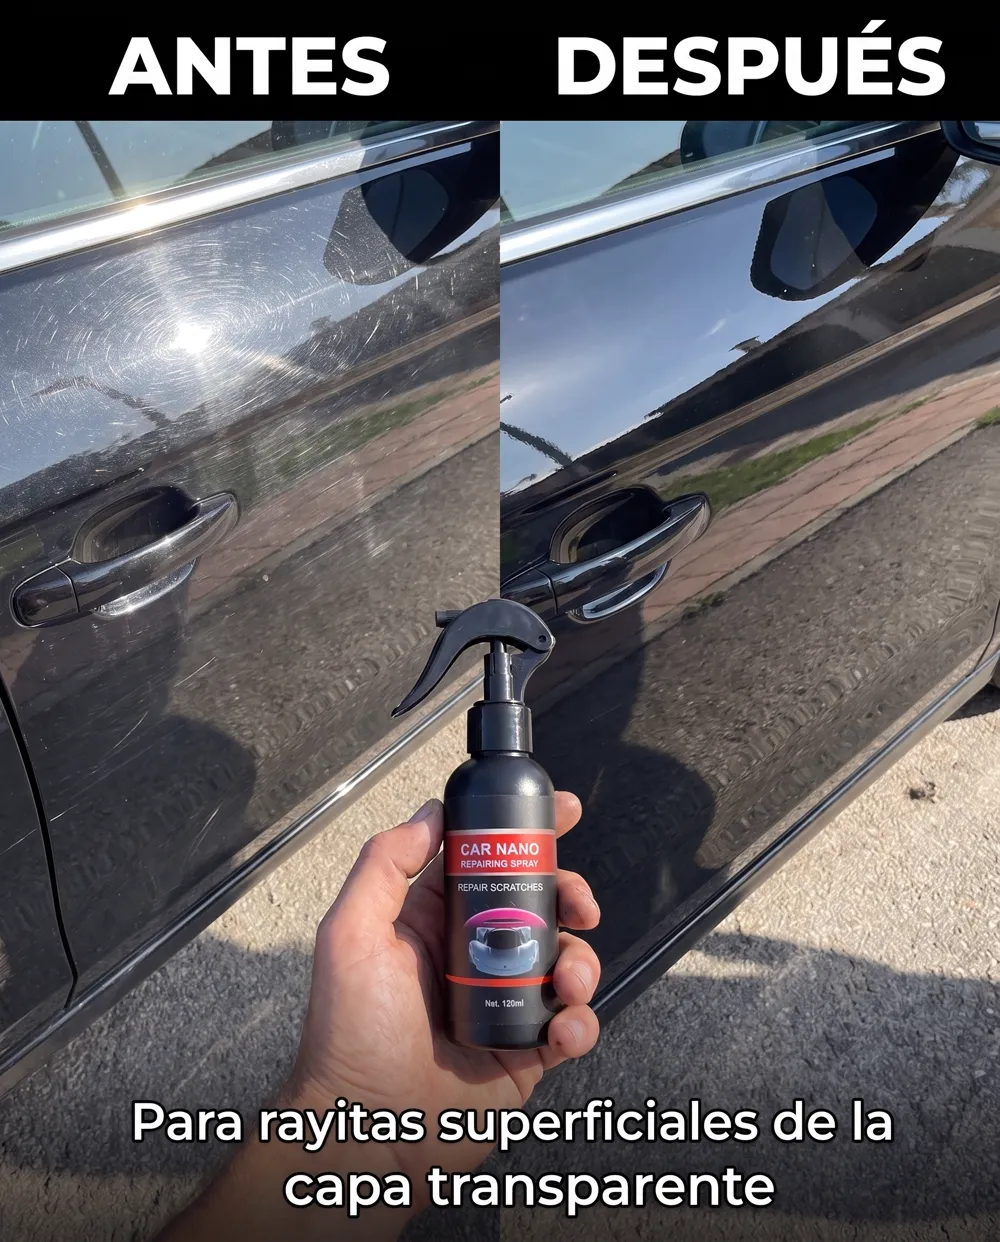
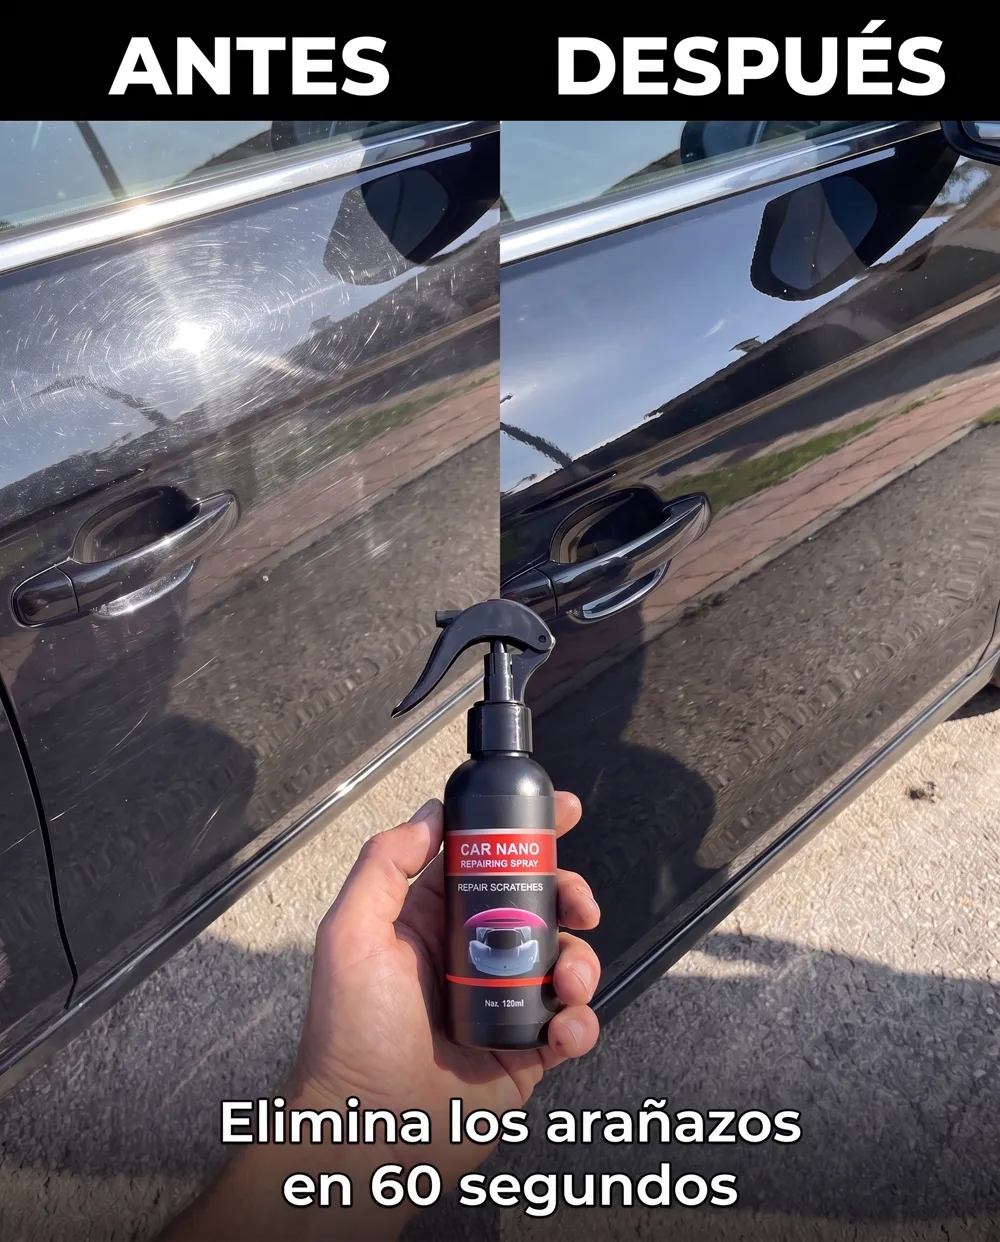
Spray de arañazos: textos como la competencia (elimina los arañazos en 60 segundos, deja de pagar al taller)

diff --git a/productos.js b/productos.js
@@ -399,20 +399,20 @@ window.PRODUCTOS = [
     dropiId: 1378,
 
     nombre: 'Spray Reparador de Arañazos',
-    sub: 'Disimula rayitas superficiales y da brillo · 120 ml',
+    sub: 'Elimina los arañazos en 60 segundos · 120 ml',
     categoria: 'Coche',
     etiqueta: 'Nuevo en España',
     etiquetaOro: true,
 
-    foto: 'img/aranazos-rocia.webp?v=1',
-    fotos: ['img/aranazos-rocia.webp?v=1', 'img/aranazos-frota.webp?v=1', 'img/aranazos-brillo.webp?v=1'],
+    foto: 'img/aranazos-rocia.webp?v=2',
+    fotos: ['img/aranazos-rocia.webp?v=2', 'img/aranazos-frota.webp?v=1', 'img/aranazos-brillo.webp?v=1'],
     video: 'img/aranazos-ficha.mp4?v=1',
 
     hero: {
       img: 'img/hero-aranazos.webp?v=1',
       kicker: 'Nuevo en España',
-      titulo: 'Rayitas fuera,<br><b>brillo de vuelta.</b>',
-      sub: 'Spray nano de 120 ml para las rayitas superficiales de la pintura. Rocías, frotas con un paño y la rayita se disimula, con brillo y una capa que repele el agua.',
+      titulo: 'Elimina los arañazos<br><b>en 60 segundos.</b>',
+      sub: '¡Deja de pagar al taller! Rocías, frotas con un paño y los arañazos desaparecen. Tu coche brilla como nuevo y queda protegido del agua y el polvo.',
       datos: [
         ['envio', 'Envío gratis'],
         ['reloj', 'En 24-48 h'],
@@ -426,35 +426,35 @@ window.PRODUCTOS = [
     escasez: { hoy: 330, mejorDia: 330, quedan: 5846,
       nota: 'Se despacha desde el almacén de Sevilla por orden de pedido. Pagas cuando lo tienes en la mano.' },
 
-    desc: 'El Spray Reparador de Arañazos es un spray nano para la pintura del coche. Rellena y disimula las rayitas superficiales de la capa transparente (las del lavado, las uñas junto a la manilla, el roce de una rama o de una bolsa), devuelve el brillo a la pintura opaca y deja una capa que repele el agua y el polvo. Se rocía sobre la zona limpia y seca y se extiende con un paño de microfibra en círculos. No arregla rayones profundos que dejan ver la imprimación o el metal, ni golpes.',
+    desc: 'El Spray Reparador de Arañazos elimina en 60 segundos los arañazos del día a día de tu coche: los del lavado, las uñas junto a la manilla, el roce de una rama o de una bolsa. Su fórmula nano rellena el arañazo, devuelve el brillo a la pintura opaca y deja una capa que repele el agua y el polvo. Rocías, frotas con un paño de microfibra y tu coche queda como nuevo, sin pasar por el taller.',
 
     puntos: [
-      'Disimula rayitas superficiales',
-      'Devuelve el brillo a la pintura',
-      'Capa que repele agua y polvo',
-      'Rocías y frotas · sin taller',
+      'Elimina los arañazos en 60 segundos',
+      'Tu coche brilla como nuevo',
+      'Lo protege del agua y del polvo',
+      'Sin taller: ahorra cientos de euros',
     ],
 
     formulaRotulo: 'Por qué funciona',
     formulaTitulo: 'Una capa nano sobre la pintura.',
     formulaSub: 'Lo que hace el spray en cuanto lo extiendes.',
     formula: [
-      ['escudo', 'Rellena la rayita', 'Las partículas nano se meten en la rayita fina y la disimulan a la vista.'],
-      ['rayo', 'Brillo al momento', 'La pintura opaca recupera el reflejo, como recién encerada.'],
+      ['escudo', 'Elimina el arañazo', 'Las partículas nano rellenan el arañazo y lo hacen desaparecer a la vista.'],
+      ['rayo', 'Brilla como nuevo', 'La pintura opaca recupera el reflejo, como recién salida del concesionario.'],
       ['agua', 'Repele el agua', 'La lluvia hace gotas y resbala; el polvo se pega menos.'],
       ['casa', 'En tu garaje', 'Rocías, frotas con un paño y listo. Sin máquina pulidora.'],
     ],
 
     comparaTitulo: '¿Por qué un spray y no el taller?',
     compara: [
-      'Para una rayita superficial, el taller cobra pulido y mano de obra.',
-      'Lo haces tú en 5 minutos, a la sombra y con un paño.',
+      'El taller te cobra cientos de euros por un arañazo.',
+      'Lo haces tú en 60 segundos, con un paño.',
       'Un bote rinde para varias aplicaciones.',
     ],
 
     preguntas: [
-      { q: '¿Qué arañazos quita?', a: 'Las rayitas superficiales de la capa transparente: marcas del lavado, de las uñas junto a la manilla, roces de ramas o bolsas y la pintura opaca por el sol. Las disimula y devuelve el brillo.' },
-      { q: '¿Para qué NO sirve?', a: 'No arregla rayones profundos que dejan ver la imprimación (la capa gris o blanca) o el metal, ni abolladuras o golpes. Truco: si al pasar la uña se engancha en el rayón, es profundo y necesita taller.' },
+      { q: '¿Qué arañazos quita?', a: 'Los arañazos del día a día: marcas del lavado, de las uñas junto a la manilla, roces de ramas o bolsas, y la pintura opaca por el sol. Los elimina y devuelve el brillo.' },
+      { q: '¿Sirve para cualquier arañazo?', a: 'Sirve para los arañazos del barniz, que son la gran mayoría. Si el rayón llega hasta el metal o hay un golpe, eso ya es de chapa y pintura en el taller.' },
       { q: '¿Cómo se aplica?', a: 'Lava y seca la zona, a la sombra y con la chapa fría. Agita el bote, rocía sobre la rayita y extiende con un paño de microfibra en círculos. Repasa con la cara seca del paño. Si hace falta, repite.' },
       { q: '¿Sirve para cualquier color?', a: 'Sí. No es pintura: es una capa transparente, así que vale para coches blancos, negros, rojos, grises o de cualquier color.' },
       { q: '¿Viene con paño?', a: 'No. Se vende el bote de 120 ml. Sirve cualquier paño de microfibra limpio que tengas en casa.' },
@@ -462,8 +462,8 @@ window.PRODUCTOS = [
     ],
 
     fotosResenas: [],
-    antesDespues: 'img/aranazos-ba.webp?v=1',
-    antesDespuesSub: 'La misma puerta al sol: con las rayitas finas del lavado, y después con el spray y un paño.',
+    antesDespues: 'img/aranazos-ba.webp?v=2',
+    antesDespuesSub: 'La misma puerta al sol: llena de arañazos del lavado, y después del spray: brillante como nueva.',
 
     /* PRECIOS aprobados por James el 01-10-2026 (~1 € por debajo del más barato con
        envío: Revine 18,99 + 3,49 envío / 34,98 / 43,47). 'antes' en 0: producto nuevo. */

diff --git a/aranazos.js b/aranazos.js
@@ -28,14 +28,14 @@
   /* ---- ASÍ SE USA: las tres fotos aprobadas, cada una un paso ---- */
   function seccionUso() {
     var pasos = [
-      ['img/aranazos-rocia.webp?v=1', 'Una mujer rociando el spray sobre una rayita del parachoques de su coche blanco', 'Rocía', 'Con la zona limpia y seca, a la sombra, directo sobre la rayita.'],
-      ['img/aranazos-frota.webp?v=1', 'Un joven frotando la puerta de su coche rojo con un paño de microfibra', 'Frota', 'Con un paño de microfibra, en círculos, hasta que la rayita se disimule.'],
-      ['img/aranazos-brillo.webp?v=1', 'Un señor con el bote en la mano sobre el capó azul mojado, con el agua en gotas', 'Brilla', 'Queda el brillo y una capa que hace que el agua resbale en gotas.'],
+      ['img/aranazos-rocia.webp?v=2', 'Una mujer rociando el spray sobre una rayita del parachoques de su coche blanco', 'Rocía', 'Directo sobre el arañazo, con la zona limpia y seca.'],
+      ['img/aranazos-frota.webp?v=1', 'Un joven frotando la puerta de su coche rojo con un paño de microfibra', 'Frota', 'Con un paño de microfibra, en círculos: el arañazo desaparece.'],
+      ['img/aranazos-brillo.webp?v=1', 'Un señor con el bote en la mano sobre el capó azul mojado, con el agua en gotas', 'Brilla', 'Tu coche brilla como nuevo y el agua resbala en gotas.'],
     ];
     return '<section class="bloque ar-sec ar-uso">'
       + '<span class="ar-rot">Así se usa</span>'
-      + '<h2 class="ar-h2">Tres pasos, <em>cinco minutos.</em></h2>'
-      + '<p class="ar-lead">Sin taller y sin máquina pulidora. Solo el spray y un paño.</p>'
+      + '<h2 class="ar-h2">Tres pasos, <em>60 segundos.</em></h2>'
+      + '<p class="ar-lead">¡Deja de pagar al taller! Solo el spray y un paño.</p>'
       + '<div class="ar-pasos">' + pasos.map(function (p, i) {
           return '<figure class="ar-paso ar-sube" style="--i:' + i + '">'
             + '<span class="ar-paso-n">0' + (i + 1) + '</span>'
@@ -47,18 +47,18 @@
 
   /* ---- SÍ / NO, con la prueba de la uña (James 02-10: no prometer de más) ---- */
   function seccionSiNo() {
-    var si = ['Rayitas del lavado y marcas finas en círculos', 'Las uñas junto a la manilla de la puerta', 'Roces de ramas, bolsas o mochilas', 'Pintura opaca que perdió el brillo'];
+    var si = ['Arañazos del lavado y marcas en círculos', 'Las uñas junto a la manilla de la puerta', 'Roces de ramas, bolsas o mochilas', 'Pintura opaca que perdió el brillo'];
     var no = ['Rayones que dejan ver la capa gris o el metal', 'Abolladuras y golpes', 'Pintura saltada o desconchada'];
     function lista(arr, d) { return '<ul>' + arr.map(function (t) { return '<li>' + icono(d) + '<span>' + t + '</span></li>'; }).join('') + '</ul>'; }
     return '<section class="bloque ar-sec ar-sino">'
-      + '<span class="ar-rot">Antes de comprar</span>'
-      + '<h2 class="ar-h2">Qué rayas quita <em>y cuáles no.</em></h2>'
+      + '<span class="ar-rot">Resultados</span>'
+      + '<h2 class="ar-h2">Arañazos <em>que elimina.</em></h2>'
       + '<div class="ar-sino-grid">'
-      +   '<div class="ar-caja ar-caja-si ar-sube"><b>Sí las disimula</b>' + lista(si, SI) + '</div>'
-      +   '<div class="ar-caja ar-caja-no ar-sube" style="--i:1"><b>No las arregla</b>' + lista(no, NO) + '</div>'
+      +   '<div class="ar-caja ar-caja-si ar-sube"><b>Los elimina</b>' + lista(si, SI) + '</div>'
+      +   '<div class="ar-caja ar-caja-no ar-sube" style="--i:1"><b>Necesitan taller</b>' + lista(no, NO) + '</div>'
       + '</div>'
       + '<div class="ar-una ar-sube" style="--i:2"><span class="ar-una-ico">' + icono('<path d="M8 13V5.5a1.5 1.5 0 0 1 3 0V12"/><path d="M11 11.5V4a1.5 1.5 0 0 1 3 0v7.5"/><path d="M14 11.5V6a1.5 1.5 0 0 1 3 0v8.5a6 6 0 0 1-6 6h-.5a6 6 0 0 1-5-2.7L3.6 15a1.5 1.5 0 0 1 2.4-1.8L8 15"/>') + '</span>'
-      +   '<div><b>La prueba de la uña</b><p>Pasa la uña sobre la raya. Si no se engancha, es superficial y este spray la disimula. Si se engancha, es profunda y necesita taller.</p></div></div>'
+      +   '<div><b>La prueba de la uña</b><p>Pasa la uña sobre el arañazo. Si no se engancha, este spray lo elimina en 60 segundos. Si se engancha hasta el metal, eso ya es de taller.</p></div></div>'
       + '</section>';
   }
 

diff --git a/producto.html b/producto.html
@@ -1175,7 +1175,7 @@ window.jayePixel = (function () {
     </div>
   </footer>
 
-<script src="productos.js?v=236"></script>
+<script src="productos.js?v=238"></script>
 <!-- ESPAÑA: provincias y codigos postales sin cobertura, en vez de las
      regiones y comunas de Chile. -->
 <script src="provincias-es.js?v=110"></script>
@@ -1198,7 +1198,7 @@ window.URL_PEDIDO = 'https://n8n-production-8a42.up.railway.app/webhook/pedido-t
 <script src="balsamo.js?v=12"></script>
 <script src="ducha.js?v=7"></script>
 <script src="sellador.js?v=3"></script>
-<script src="aranazos.js?v=2"></script>
+<script src="aranazos.js?v=4"></script>
 <!-- Los js de los productos de Chile (organizador, clorofila, lymphoria,
      antena, cargador) NO van aqui: no existen en este repo y daban 404. -->
 

diff --git a/index.html b/index.html
@@ -485,7 +485,7 @@ try{ if(!sessionStorage.getItem('jaye_vis_portada_es')){ sessionStorage.setItem(
     </div>
   </footer>
 
-<script src="productos.js?v=236"></script>
+<script src="productos.js?v=238"></script>
 <script src="resenas.js?v=209"></script>
 <script src="tienda.js?v=56"></script>
 
